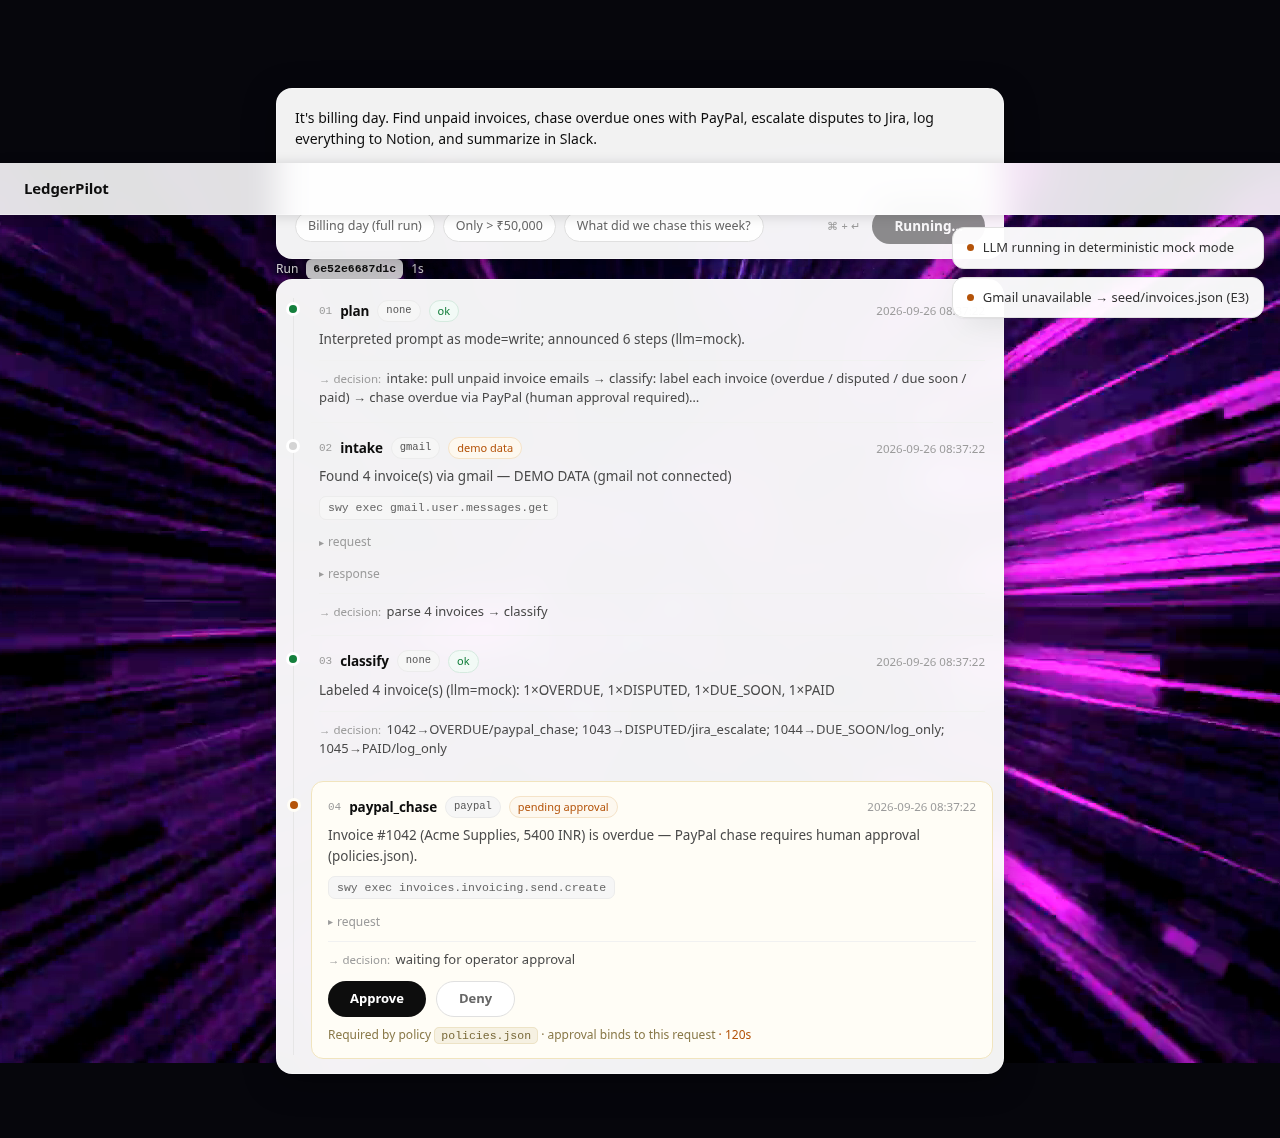
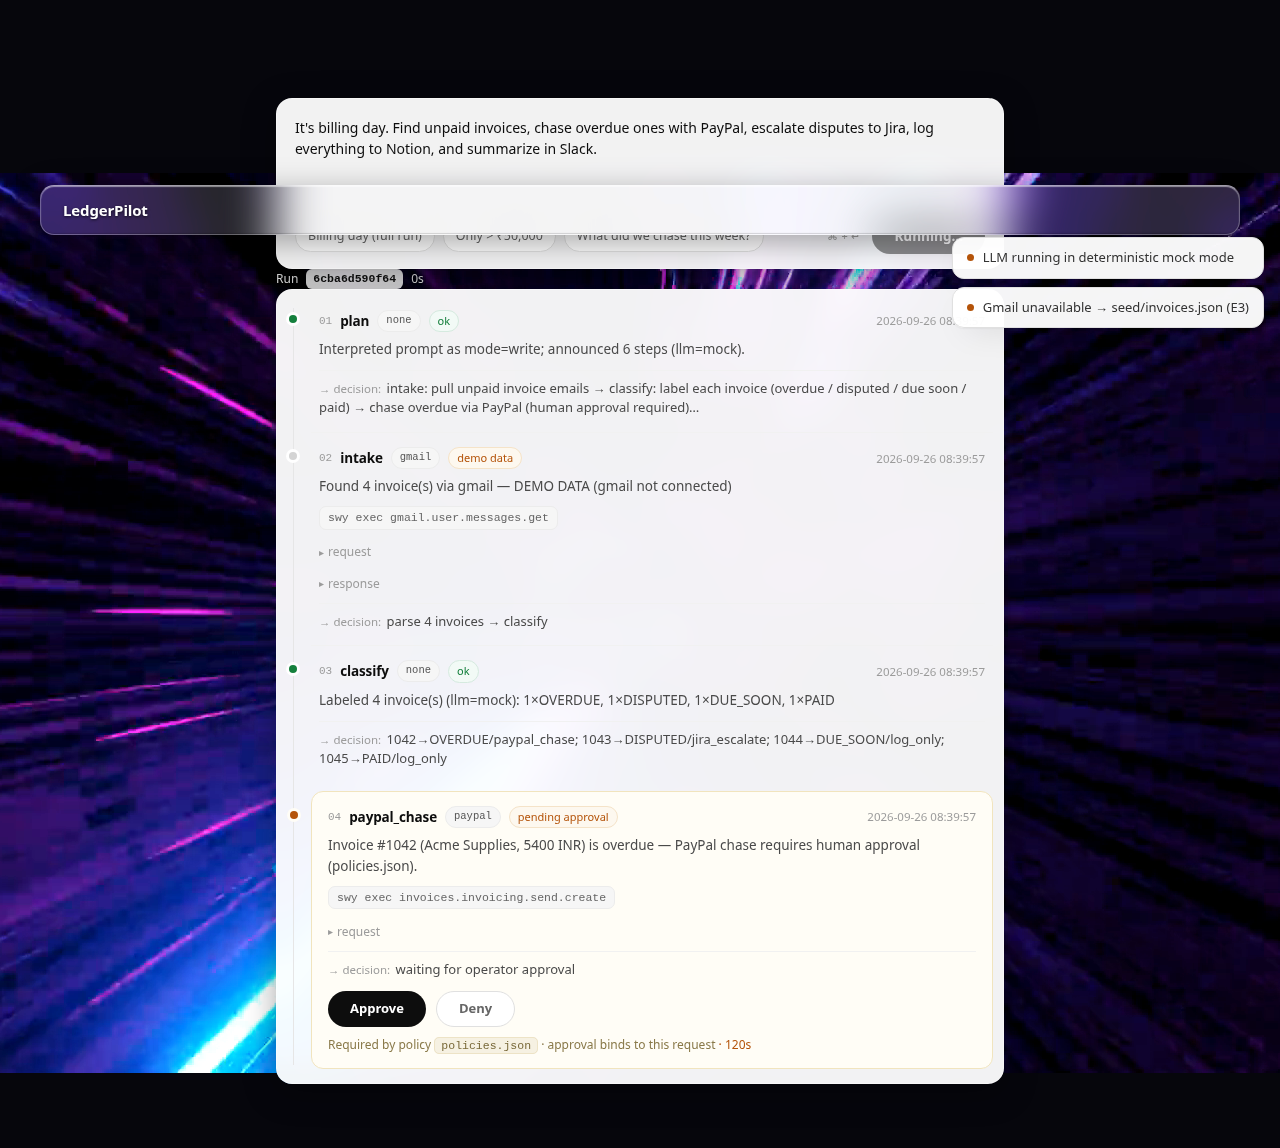
UI: style header with floating liquid glass, rounded transparent corners, and crisp white typography

diff --git a/ui/index.html b/ui/index.html
@@ -34,16 +34,23 @@ button{font-family:inherit}
 
 /* ---------- header ---------- */
 header{
-  position:sticky; top:0; z-index:20;
-  background:rgba(255,255,255,.88);
-  -webkit-backdrop-filter:blur(16px); backdrop-filter:blur(16px);
-  border-bottom:1px solid rgba(255,255,255,.3);
+  position:sticky; top:12px; z-index:20;
+  max-width:1200px; margin:12px auto 0; width:calc(100% - 32px);
+  background:rgba(255,255,255,.15);
+  -webkit-backdrop-filter:blur(24px) saturate(180%);
+  backdrop-filter:blur(24px) saturate(180%);
+  border:1px solid rgba(255,255,255,.28);
+  border-top:1px solid rgba(255,255,255,.55);
+  border-radius:14px;
   display:flex; align-items:center; justify-content:space-between;
-  padding:0 24px; height:52px;
-  box-shadow:0 1px 12px rgba(0,0,0,.15);
+  padding:0 22px; height:50px;
+  box-shadow:inset 0 1px 1px 0 rgba(255,255,255,.5), inset 0 -1px 1px 0 rgba(0,0,0,.15), 0 8px 32px rgba(0,0,0,.35);
 }
-.brand{display:flex; align-items:baseline; gap:10px; min-width:0}
-.brand h1{font-size:15px; font-weight:650; margin:0; letter-spacing:-.01em}
+.brand{display:flex; align-items:center; gap:10px; min-width:0}
+.brand h1{
+  font-size:15px; font-weight:700; margin:0; letter-spacing:-.01em;
+  color:#FFFFFF; text-shadow:0 1px 3px rgba(0,0,0,.7);
+}
 .brand .sub{color:var(--faint); font-size:12px; white-space:nowrap; overflow:hidden; text-overflow:ellipsis}
 #statusPill{
   font-size:12px; padding:4px 10px; border-radius:999px;
